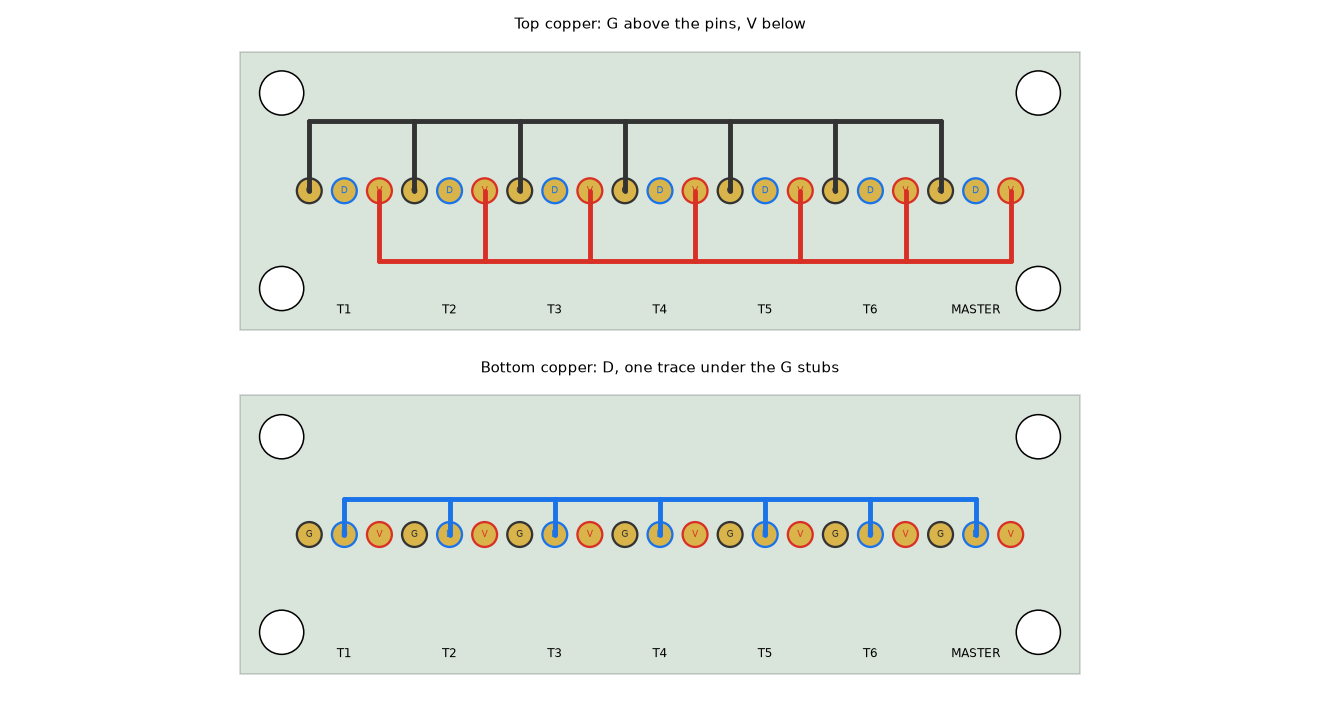
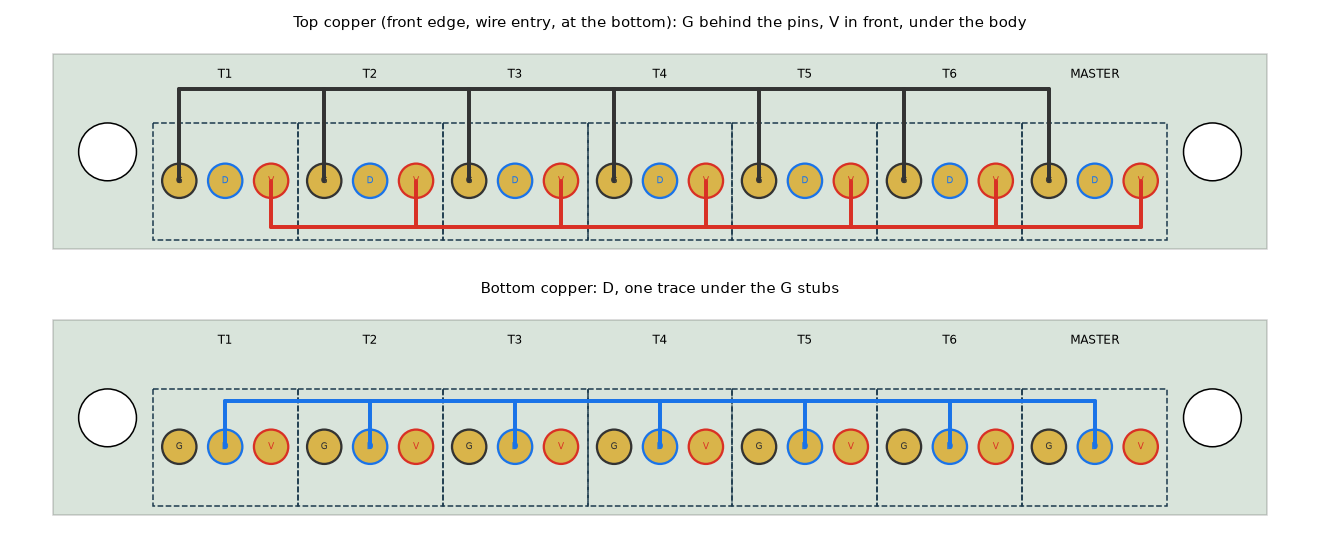
one-wire-bus-board: real OSTVN 2.54 terminals (drill 1.30, 8.02 block pitch), on the front edge with wire entry out; parts.md row

diff --git a/projects/one-wire-bus-board/model.py b/projects/one-wire-bus-board/model.py
@@ -1,9 +1,10 @@
 """1-wire bus board: seven 3-pin terminals in a row, [G D V] each, tied into three nets.
 
 Two copper layers, no vias, no jumpers. Plated pads put every pin on both layers:
-  G  top    trunk above the pin row, stub up from each G pad
-  V  top    trunk below the pin row, stub down from each V pad
-  D  bottom trunk between the pin row and the G trunk, stub up from each D pad
+  G  top    trunk behind the pin row, stub back from each G pad
+  V  top    trunk in front of the pin row (under the terminal body), stub forward from each V pad
+  D  bottom trunk between the pin row and the G trunk, stub back from each D pad
+Terminals: OST OSTVN 2.54 3-position blocks (vendor drawing), wire entry facing the front edge.
 D runs on the other layer from the G stubs it passes under.
 Writes out/one-wire-bus.kicad_pcb (KiCad 7 text format) and out/one-wire-bus.png.
 """
@@ -20,13 +21,19 @@ PITCH = 2.54
 class Params:
     terminals: int = 7          # six field terminals + the master (the last one)
     pins: int = 3               # G, D, V
-    pad_d: float = 1.8
-    drill: float = 1.0
+    pad_d: float = 1.9
+    drill: float = 1.3          # vendor drawing: 1.30
+    block_pitch: float = 8.02   # 3-pos body: 2 x 2.54 + 2 x 1.47; blocks butt together
+    end_gap: float = 1.47       # body edge to first pin
+    front_to_pin: float = 3.3   # wire-entry face to the pin row (vendor drawing)
+    back_to_pin: float = 3.2    # body depth 6.5
+    lip: float = 0.5            # board edge past the body's wire-entry face
     track_w: float = 0.5
-    trunk_off: float = 5.08     # G trunk above / V trunk below the pin row
-    d_trunk_off: float = 2.54   # D trunk (bottom layer) above the pin row
-    margin_x: float = 5.0
-    margin_y: float = 5.0
+    g_off: float = 5.08         # G trunk behind the pin row (y negative = back)
+    d_off: float = 2.54         # D trunk (bottom layer) behind the pin row
+    v_off: float = 2.54         # V trunk in front of the pin row
+    margin_x: float = 5.5
+    back_margin: float = 3.8    # board edge behind the body
     mount_d: float = 3.2        # M3 clearance
     mount_inset: float = 3.0
 
@@ -40,7 +47,7 @@ def build(p: Params = Params()) -> dict:
     pads, tracks = [], []
     for t in range(p.terminals):
         for i, name in enumerate("GDV"):
-            x = (t * p.pins + i) * PITCH
+            x = t * p.block_pitch + i * PITCH
             pads.append({"ref": f"J{t + 1}", "num": i + 1, "net": NETS[name], "x": x, "y": 0.0})
     by = {n: [q for q in pads if q["net"] == NETS[n]] for n in "GDV"}
     w = p.track_w
@@ -48,18 +55,22 @@ def build(p: Params = Params()) -> dict:
     def seg(a, b, layer, net):
         tracks.append({"x1": a[0], "y1": a[1], "x2": b[0], "y2": b[1], "layer": layer, "net": net, "w": w})
 
-    yg, yd, yv = -p.trunk_off, -p.d_trunk_off, p.trunk_off
+    yg, yd, yv = -p.g_off, -p.d_off, p.v_off
     for n, y, layer in (("G", yg, "F.Cu"), ("D", yd, "B.Cu"), ("V", yv, "F.Cu")):
         pp = by[n]
         for q in pp:
             seg((q["x"], 0.0), (q["x"], y), layer, NETS[n])
         for a, b in zip(pp, pp[1:]):
             seg((a["x"], y), (b["x"], y), layer, NETS[n])
-    x0, x1 = -p.margin_x, (p.terminals * p.pins - 1) * PITCH + p.margin_x
-    y0, y1 = -(p.trunk_off + p.margin_y), p.trunk_off + p.margin_y
-    holes = [(x0 + p.mount_inset, y0 + p.mount_inset), (x1 - p.mount_inset, y0 + p.mount_inset),
-             (x0 + p.mount_inset, y1 - p.mount_inset), (x1 - p.mount_inset, y1 - p.mount_inset)]
-    return {"pads": pads, "tracks": tracks, "outline": (x0, y0, x1, y1), "holes": holes, "p": p}
+    bx0 = -p.end_gap
+    bx1 = (p.terminals - 1) * p.block_pitch + (p.pins - 1) * PITCH + p.end_gap
+    x0, x1 = bx0 - p.margin_x, bx1 + p.margin_x
+    y0, y1 = -(p.back_to_pin + p.back_margin), p.front_to_pin + p.lip
+    ym = (y0 + y1) / 2
+    holes = [(x0 + p.mount_inset, ym), (x1 - p.mount_inset, ym)]
+    bodies = [(t * p.block_pitch - p.end_gap, -p.back_to_pin,
+               t * p.block_pitch + (p.pins - 1) * PITCH + p.end_gap, p.front_to_pin) for t in range(p.terminals)]
+    return {"pads": pads, "tracks": tracks, "outline": (x0, y0, x1, y1), "holes": holes, "bodies": bodies, "p": p}
 
 
 def to_kicad(b: dict) -> str:
@@ -73,11 +84,11 @@ def to_kicad(b: dict) -> str:
     ox, oy = 100.0, 100.0   # place on the sheet
     for t in range(p.terminals):
         ref = f"J{t + 1}"
-        x = ox + t * p.pins * PITCH
-        o.append(f' (footprint "workshop:Terminal_1x3_P2.54mm" (layer "F.Cu") (at {x:.3f} {oy:.3f})')
-        o.append(f'  (fp_text reference "{ref}" (at 2.54 -2.8) (layer "F.SilkS") (effects (font (size 1 1) (thickness 0.15))))')
-        o.append('  (fp_text value "terminal G D V" (at 2.54 2.8) (layer "F.Fab") (effects (font (size 1 1) (thickness 0.15))))')
-        o.append(f'  (fp_rect (start -1.4 -1.4) (end {2 * PITCH + 1.4:.2f} 1.4) (layer "F.SilkS") (width 0.12) (fill none))')
+        x = ox + t * p.block_pitch
+        o.append(f' (footprint "workshop:OSTVN2.54-3P" (layer "F.Cu") (at {x:.3f} {oy:.3f})')
+        o.append(f'  (fp_text reference "{ref}" (at 2.54 -3.9) (layer "F.SilkS") (effects (font (size 1 1) (thickness 0.15))))')
+        o.append('  (fp_text value "OSTVN 2.54 3P, wire entry toward +y" (at 2.54 4.6) (layer "F.Fab") (effects (font (size 1 1) (thickness 0.15))))')
+        o.append(f'  (fp_rect (start {-p.end_gap} {-p.back_to_pin}) (end {2 * PITCH + p.end_gap:.2f} {p.front_to_pin}) (layer "F.SilkS") (width 0.12) (fill none))')
         for i, name in enumerate("GDV"):
             shape = "rect" if i == 0 else "circle"
             o.append(f'  (pad "{i + 1}" thru_hole {shape} (at {i * PITCH:.3f} 0) (size {p.pad_d} {p.pad_d}) '
@@ -103,21 +114,23 @@ def render(b: dict, path: Path) -> None:
     import matplotlib.pyplot as plt
     from matplotlib.patches import Circle, Rectangle
     col = {1: "#333333", 2: "#1a73e8", 3: "#d93025"}
-    fig, axs = plt.subplots(2, 1, figsize=(12, 6.4))
+    fig, axs = plt.subplots(2, 1, figsize=(12, 5))
     x0, y0, x1, y1 = b["outline"]
-    for ax, layer, title in ((axs[0], "F.Cu", "Top copper: G above the pins, V below"),
+    for ax, layer, title in ((axs[0], "F.Cu", "Top copper (front edge, wire entry, at the bottom): G behind the pins, V in front, under the body"),
                              (axs[1], "B.Cu", "Bottom copper: D, one trace under the G stubs")):
         ax.add_patch(Rectangle((x0, y0), x1 - x0, y1 - y0, fc="#2f6b3a", alpha=0.18, ec="k"))
         for s in b["tracks"]:
             if s["layer"] == layer:
-                ax.plot([s["x1"], s["x2"]], [s["y1"], s["y2"]], color=col[s["net"]], lw=3.2, solid_capstyle="round")
+                ax.plot([s["x1"], s["x2"]], [s["y1"], s["y2"]], color=col[s["net"]], lw=2.6, solid_capstyle="round")
         for q in b["pads"]:
             ax.add_patch(Circle((q["x"], q["y"]), b["p"].pad_d / 2, fc="#d9b44a", ec=col[q["net"]], lw=1.5))
             ax.text(q["x"], q["y"], "GDV"[q["num"] - 1], ha="center", va="center", fontsize=6, color=col[q["net"]])
         for hx, hy in b["holes"]:
             ax.add_patch(Circle((hx, hy), b["p"].mount_d / 2, fc="white", ec="k"))
+        for (bx0, by0, bx1, by1) in b["bodies"]:
+            ax.add_patch(Rectangle((bx0, by0), bx1 - bx0, by1 - by0, fc="none", ec="#1c3a4d", ls="--", lw=1))
         for t in range(b["p"].terminals):
-            ax.text((t * 3 + 1) * PITCH, y1 - 1.2, "MASTER" if t == b["p"].terminals - 1 else f"T{t + 1}",
+            ax.text(t * b["p"].block_pitch + PITCH, y0 + 1.3, "MASTER" if t == b["p"].terminals - 1 else f"T{t + 1}",
                     ha="center", fontsize=8)
         ax.set_aspect("equal"); ax.invert_yaxis(); ax.set_title(title, fontsize=10); ax.axis("off")
         ax.set_xlim(x0 - 1, x1 + 1); ax.set_ylim(y1 + 1, y0 - 1)

diff --git a/projects/one-wire-bus-board/test_model.py b/projects/one-wire-bus-board/test_model.py
@@ -27,7 +27,26 @@ def test_counts():
     for net in (1, 2, 3):
         assert sum(q["net"] == net for q in B["pads"]) == P.terminals
     x0, y0, x1, y1 = B["outline"]
-    assert 55 < x1 - x0 < 62 and 18 < y1 - y0 < 25
+    assert 65 < x1 - x0 < 70 and 10 < y1 - y0 < 12
+
+
+def test_terminal_geometry_matches_the_vendor_drawing():
+    # pins 2.54 apart inside a block; blocks butt at 8.02 (2 x 2.54 + 2 x 1.47)
+    xs = sorted(q["x"] for q in B["pads"])
+    assert abs(xs[1] - xs[0] - 2.54) < 1e-9 and abs(xs[3] - xs[0] - P.block_pitch) < 1e-9
+    assert P.drill == 1.3
+    x0, y0, x1, y1 = B["outline"]
+    for bx0, by0, bx1, by1 in B["bodies"]:
+        assert 0 <= y1 - by1 <= 1.0, "body front must sit at the board's front edge"
+        assert by0 - y0 >= 3.0 and (by1 - by0) == 6.5
+
+
+def test_copper_stays_off_the_edge():
+    x0, y0, x1, y1 = B["outline"]
+    for layer in ("F.Cu", "B.Cu"):
+        for _, g in shapes(layer):
+            bx0, by0, bx1, by1 = g.bounds
+            assert bx0 - x0 >= 0.5 and x1 - bx1 >= 0.5 and by0 - y0 >= 0.5 and y1 - by1 >= 0.5
 
 
 def test_no_vias_no_jumpers_one_layer_each():
@@ -57,7 +76,7 @@ def test_clearance_between_nets_on_each_layer():
 def test_kicad_file_balanced_and_complete():
     text = m.to_kicad(B)
     assert text.count("(") == text.count(")")
-    assert text.count("(footprint") == P.terminals + 4
+    assert text.count("(footprint") == P.terminals + len(B["holes"])
     assert text.count("(segment") == len(B["tracks"])
     assert text.count("(gr_line") == 4
     assert text.count('"DATA"') >= P.terminals + 1

diff --git a/projects/one-wire-bus-board/README.md b/projects/one-wire-bus-board/README.md
@@ -2,24 +2,28 @@
 
 Purpose: tie seven 3-pin screw terminals, each [G D V] in a row, into three nets
 (GND, DATA, VCC) with no jumpers and no insulated wire. Six field terminals and a
-MASTER whose cable goes to the microcontroller. Pitch 2.54 mm, pins in one row.
+MASTER whose cable goes to the microcontroller. Terminals are OST OSTVN 2.54 3-position blocks, on the front edge, wire entry facing out.
 
-Two copper layers, plated pads, no vias: G on top above the pin row, V on top below
-it, D on the bottom between the pin row and G, so D passes under the G stubs.
+Two copper layers, plated pads, no vias: G on top behind the pin row, V on top in front
+of it (under the terminal body), D on the bottom between the pin row and G, so D passes under the G stubs.
 Hand-built equivalent on a one-sided pad board: bare wire for G and V on the solder
 side, one bare wire for D on the top face dipping through each D hole.
 
 Outputs in `out/`: `one-wire-bus.kicad_pcb` (KiCad 7 text, generated by `model.py`),
-`one-wire-bus.png` (both layers). Board 60.8 x 20.2 mm, four M3 holes.
+`one-wire-bus.png` (both layers). Board 67.1 x 10.8 mm, two M3 holes at the ends. Blocks butt at 8.02 mm (2 x 2.54 + 2 x 1.47), so a block's last pin to the next block's first is 2.94, not 2.54: on a 2.54 mm perfboard leave a hole between blocks (10.16 pitch).
+
+## Measured, and from what
+
+OSTVN 2.54 vendor drawing (owner-supplied image, not calipered): pitch 2.54; body 6.5 deep, 8.5 tall; pins 3.3 from the wire-entry face, 3.2 from the back, 3.5 long, 0.9 x 0.4; drill 1.30; 1.47 from body end to first pin.
 
 ## Guessed, not measured
 
 | Value | Now | Why |
 |---|---|---|
-| Pad / drill | 1.8 / 1.0 mm | common 2.54 mm through-hole |
+| Pad | 1.9 mm | drill 1.30 is the vendor's; pad is mine |
 | Track width, min clearance | 0.5 / 0.3 mm | fab-safe defaults |
-| Terminal pins | G, D, V in that order, 2.54 apart | owner's brief |
-| Terminal body, wire entry | not modelled | the PCB has no body-depth constraint; check the part's footprint before ordering |
+| Terminal pin order | G, D, V, left to right with the wire entry facing you | owner's brief |
+| Board lip past the body front | 0.5 mm | keeps copper off the edge |
 
 The file was not opened in KiCad (not installed on this box); the test checks net
 connectivity and clearance geometrically. Open it in KiCad and run DRC before ordering.

diff --git a/parts.md b/parts.md
@@ -30,5 +30,6 @@ rough calipers. The calipered numbers above come from segment-display-enclosure.
 | Part | Dimensions, mm | Source | Used in |
 |---|---|---|---|
 | M3 F/F hex standoff, the owner's stock | 19.7 long, 5.5 across flats (assumed) | owner, caliper (length) | halmet-enclosure-mount |
+| 2.54 mm screw terminal, 3-pos (OST OSTVN 2.54) | 3-pos body 8.02 x 6.5 x 8.5 (L x deep x tall); pitch 2.54; pins 3.3 from the wire-entry face, 3.5 long, 0.9 x 0.4; drill 1.30 | vendor drawing, owner-supplied, not calipered | [one-wire-bus-board](projects/one-wire-bus-board/) |
 | DIN rail TS35 | 34.5 measured, 35 nominal | owner, caliper | din-rail-psu-mount |
 | DIN clip (preferred, low profile) | Printables 420009, `din_clip_heat_insert.stl`, printed apart, two M3 heat-insert holes 51 mm apart across the rail (model x = 5 and 56, rail centre 27.05), on the clip's centre line; the mount screws on with M3 countersunk | owner's choice of design |
